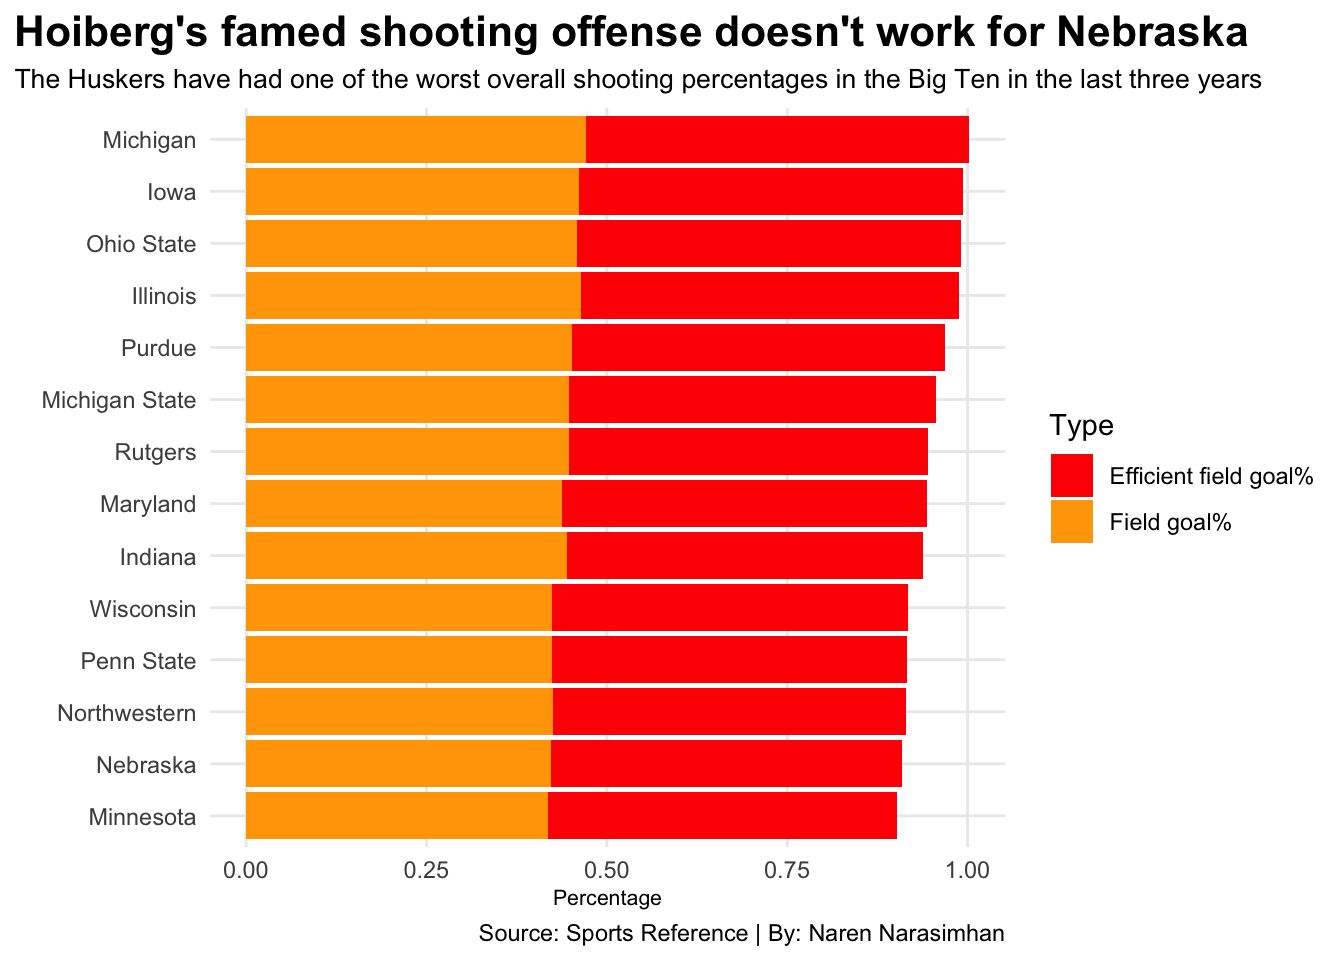
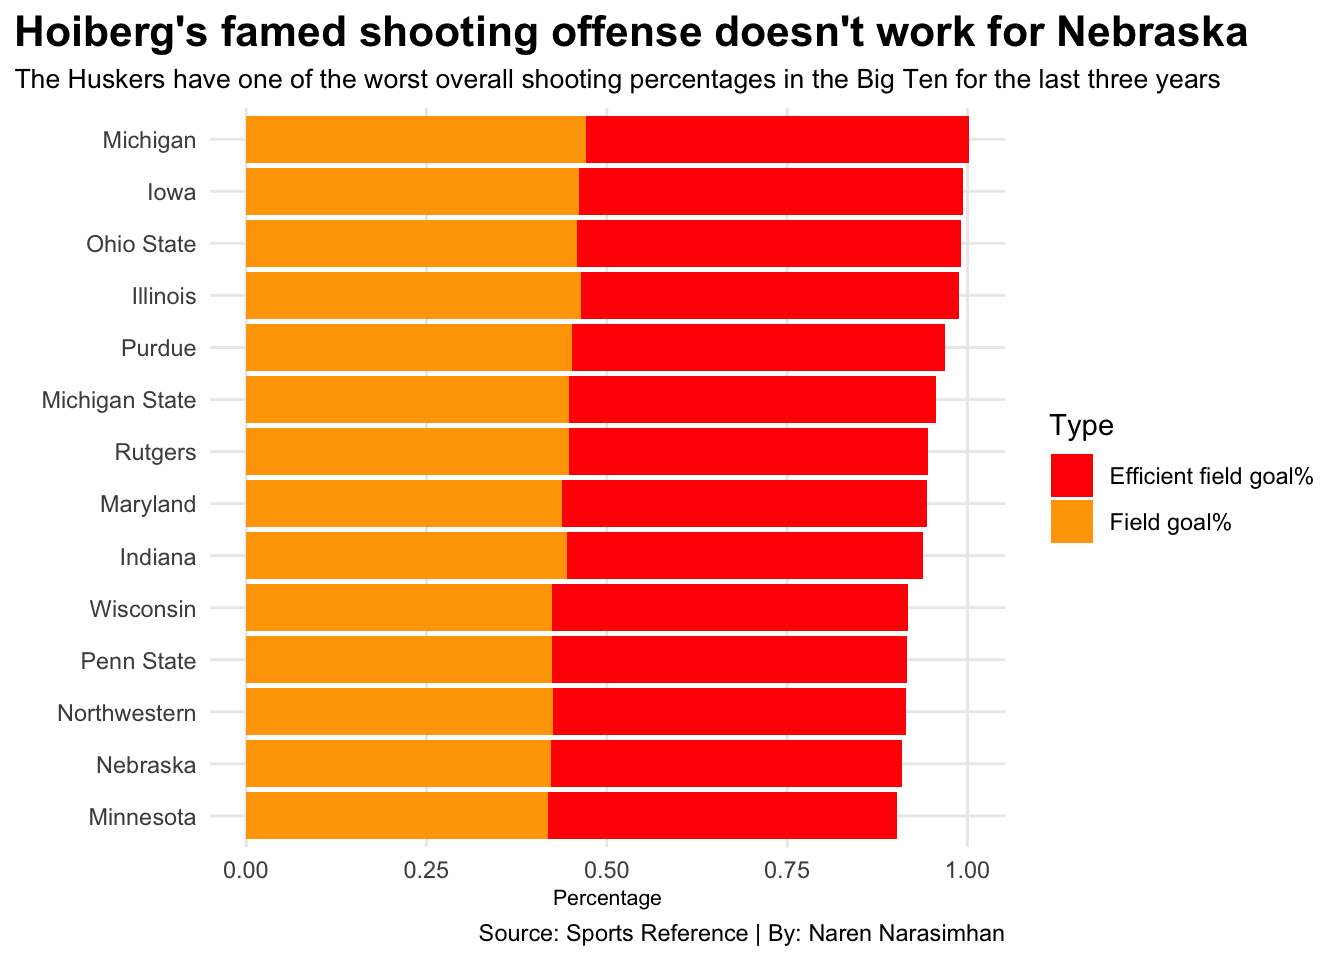
final post

Changed region(s): [[0.1875, 0.0625, 0.9375, 0.0938]]

diff --git a/posts/nebraska-doesnt-belong-in-big-10/index.html b/posts/nebraska-doesnt-belong-in-big-10/index.html
@@ -362,7 +362,7 @@ code span.wa { color: #60a0b0; font-weight: bold; font-style: italic; } /* Warni
 <span id="cb3-24"><a href="#cb3-24" aria-hidden="true" tabindex="-1"></a>    <span class="at">x=</span><span class="st">""</span>,</span>
 <span id="cb3-25"><a href="#cb3-25" aria-hidden="true" tabindex="-1"></a>    <span class="at">y=</span><span class="st">"Percentage"</span>,</span>
 <span id="cb3-26"><a href="#cb3-26" aria-hidden="true" tabindex="-1"></a>    <span class="at">title=</span><span class="st">"Hoiberg's famed shooting offense doesn't work for Nebraska"</span>,</span>
-<span id="cb3-27"><a href="#cb3-27" aria-hidden="true" tabindex="-1"></a>    <span class="at">subtitle=</span><span class="st">"The Huskers have had one of the worst overall shooting percentages in the Big Ten in the last three years"</span>,</span>
+<span id="cb3-27"><a href="#cb3-27" aria-hidden="true" tabindex="-1"></a>    <span class="at">subtitle=</span><span class="st">"The Huskers have one of the worst overall shooting percentages in the Big Ten for the last three years"</span>,</span>
 <span id="cb3-28"><a href="#cb3-28" aria-hidden="true" tabindex="-1"></a>    <span class="at">caption=</span><span class="st">"Source: Sports Reference | By: Naren Narasimhan"</span>) <span class="sc">+</span></span>
 <span id="cb3-29"><a href="#cb3-29" aria-hidden="true" tabindex="-1"></a>  <span class="fu">theme_minimal</span>() <span class="sc">+</span></span>
 <span id="cb3-30"><a href="#cb3-30" aria-hidden="true" tabindex="-1"></a>  <span class="fu">theme</span>(</span>
@@ -398,7 +398,7 @@ code span.wa { color: #60a0b0; font-weight: bold; font-style: italic; } /* Warni
 <span id="cb4-16"><a href="#cb4-16" aria-hidden="true" tabindex="-1"></a>    <span class="at">x=</span><span class="st">"Offensive Rating (Green) vs. Defesnive Rating (Red)"</span>,</span>
 <span id="cb4-17"><a href="#cb4-17" aria-hidden="true" tabindex="-1"></a>    <span class="at">y=</span><span class="st">""</span>,</span>
 <span id="cb4-18"><a href="#cb4-18" aria-hidden="true" tabindex="-1"></a>    <span class="at">title=</span><span class="st">"The Huskers have the worst offesnive and defensive rating"</span>,</span>
-<span id="cb4-19"><a href="#cb4-19" aria-hidden="true" tabindex="-1"></a>    <span class="at">subtitle=</span><span class="st">"Nebraska and Northwestern are the only teams in the Big Ten that have their offensive and defesnive ratings inverted"</span>,</span>
+<span id="cb4-19"><a href="#cb4-19" aria-hidden="true" tabindex="-1"></a>    <span class="at">subtitle=</span><span class="st">"Nebraska and Northwestern are the only teams in that have their offensive and defesnive ratings inverted"</span>,</span>
 <span id="cb4-20"><a href="#cb4-20" aria-hidden="true" tabindex="-1"></a>    <span class="at">caption=</span><span class="st">"Source: Sports Reference | By: Naren Narasimhan"</span>) <span class="sc">+</span></span>
 <span id="cb4-21"><a href="#cb4-21" aria-hidden="true" tabindex="-1"></a>  <span class="fu">theme_minimal</span>() <span class="sc">+</span></span>
 <span id="cb4-22"><a href="#cb4-22" aria-hidden="true" tabindex="-1"></a>  <span class="fu">theme</span>(</span>

diff --git a/index.html b/index.html
@@ -157,7 +157,7 @@ ul.task-list{list-style: none;}
 
 <div class="quarto-listing quarto-listing-container-default" id="listing-listing">
 <div class="list quarto-listing-default">
-<div class="quarto-post image-right" data-index="0" data-categories="huskers,code,analysis" data-listing-date-sort="1667192400000" data-listing-file-modified-sort="1667793322324" data-listing-reading-time-sort="7.305">
+<div class="quarto-post image-right" data-index="0" data-categories="huskers,code,analysis" data-listing-date-sort="1667192400000" data-listing-file-modified-sort="1667793859052" data-listing-reading-time-sort="7.285">
 <div class="thumbnail">
 <p><a href="./posts/nebraska-doesnt-belong-in-big-10/index.html"> <img src="./posts/nebraska-doesnt-belong-in-big-10/image.png" class="thumnail-image"> </a></p>
 </div>
